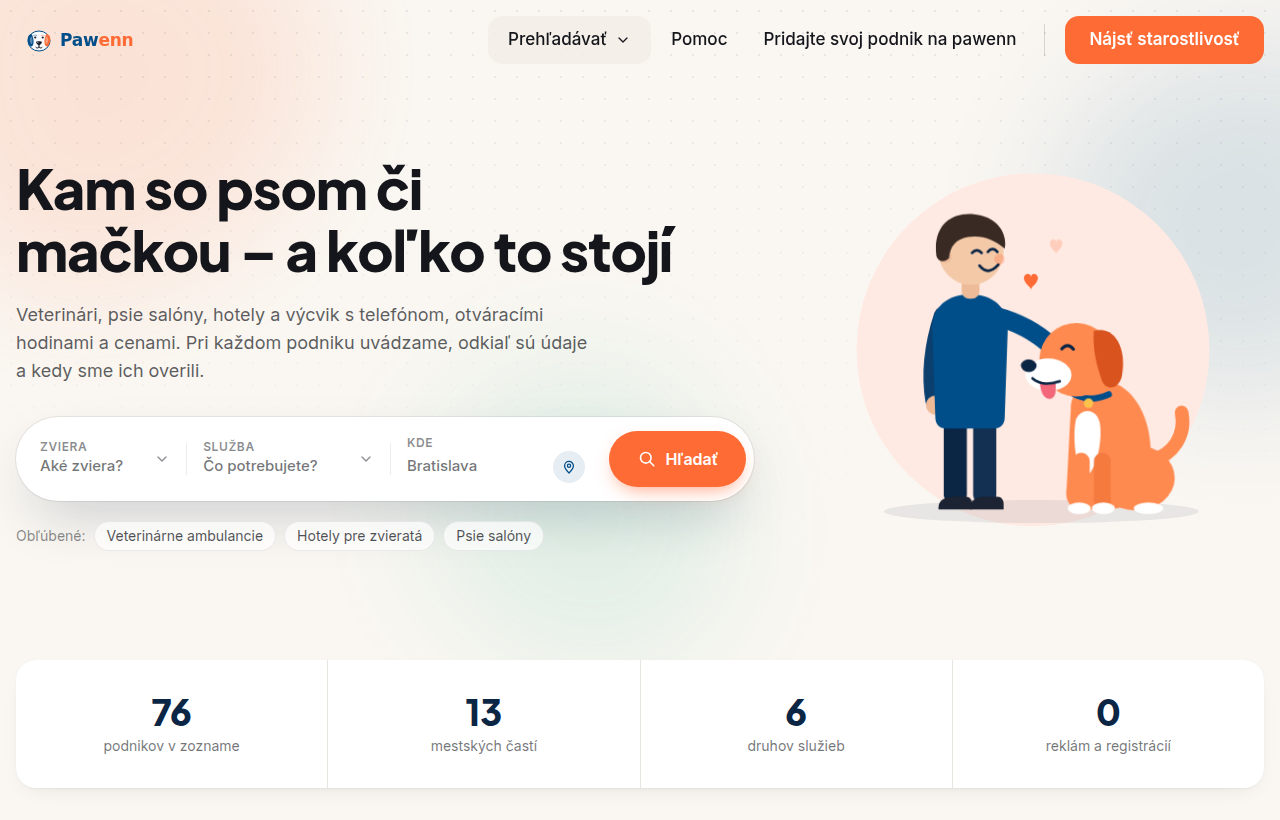
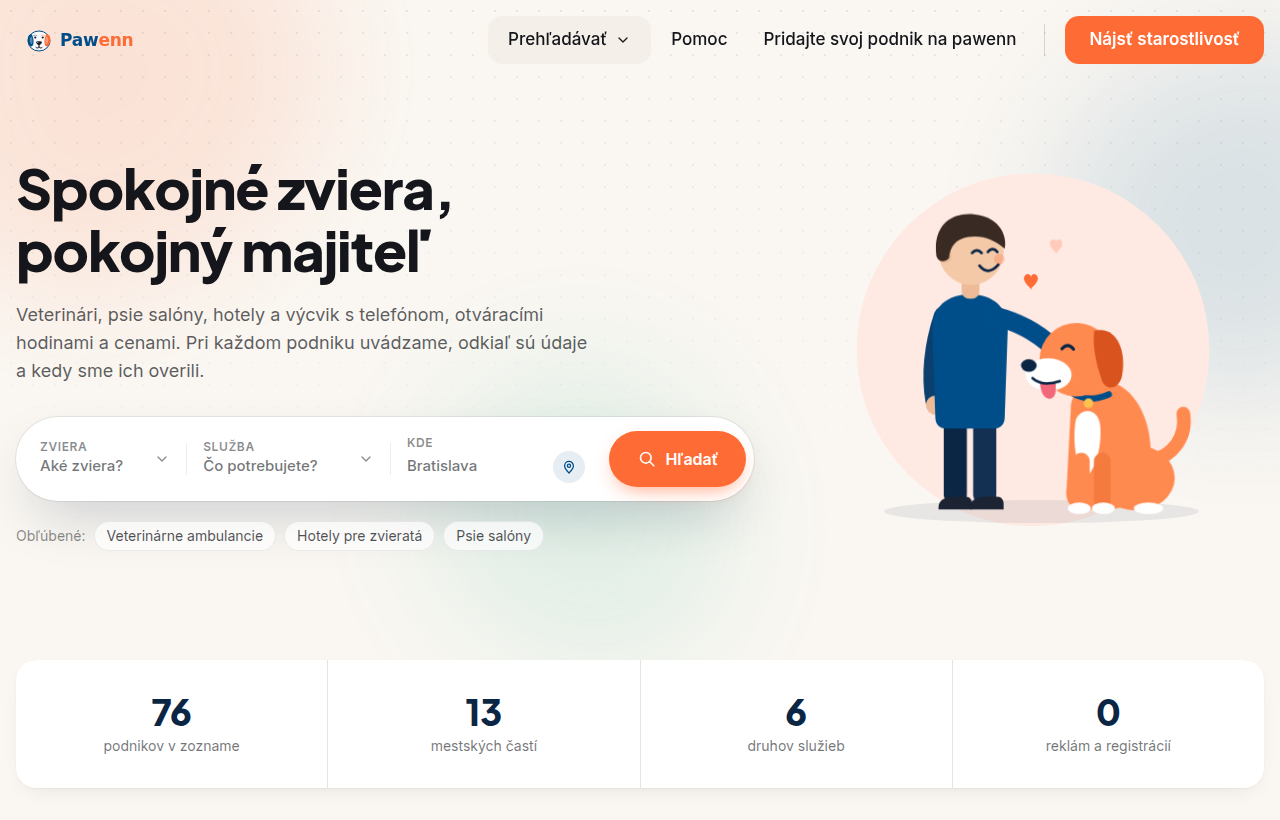
[дизайнер] Главная: слоган «Spokojné zviera, pokojný majiteľ»
Владелец выбрал слоган из шести вариантов (прошлый «Kam so psom či
mačkou – a koľko to stojí» ему не понравился):
  SK: «Spokojné zviera, pokojný majiteľ»
  EN: «Happy pet, easy mind»
Довольный питомец — спокойный хозяин; перекликается с анимацией
справа. Подзаголовок, анимация, <title> и description без изменений.

Проверено: lint, tsc, next build; 1 H1, без горизонтальной прокрутки
на 390 и 1280 (sk/en).

Исполнитель: Claude Code (облачный, «дизайнер») по прямому указанию владельца.

Claude-Session: https://claude.ai/code/session_019ZiHMdPZ52Pp3BSEGyzENY

Changed region(s): [[0.0, 0.1829, 0.5312, 0.3659], [0.9062, 0.4878, 0.9375, 0.5488]]

diff --git a/website/lib/dictionaries/sk.ts b/website/lib/dictionaries/sk.ts
@@ -79,7 +79,7 @@ export const sk: Dictionary = {
     metaTitle: (where: string) => `Služby pre zvieratá ${skIn(where)} – veterinári, psie salóny, hotely | Pawenn`,
     metaDescription: (where: string) =>
       `Služby pre zvieratá ${skIn(where)} - psie salóny, veterinári, hotely pre zvieratá, výcvik a ďalšie, s kontaktom na jeden dotyk`,
-    h1: "Kam so psom či mačkou\u00a0– a\u00a0koľko to stojí",
+    h1: "Spokojné zviera, pokojný majiteľ",
     subtitle: "Veterinári, psie salóny, hotely a výcvik s\u00a0telefónom, otváracími hodinami a cenami. Pri každom podniku uvádzame, odkiaľ sú údaje a kedy sme ich overili.",
     popular: "Obľúbené:",
     statPlaces: "podnikov v zozname",

diff --git a/website/lib/dictionaries/en.ts b/website/lib/dictionaries/en.ts
@@ -67,7 +67,7 @@ export const en = {
     metaTitle: (where: string) => `Pet Services ${where} – vets, grooming, pet hotels | Pawenn`,
     metaDescription: (where: string) =>
       `Find trusted pet services ${where} - groomers, vets, hotels, training and more`,
-    h1: "Where to take your dog or cat\u00a0– and what it costs",
+    h1: "Happy pet, easy mind",
     subtitle: "Vets, groomers, pet hotels and trainers with phone numbers, opening hours and prices. Every listing says where the details come from and when we checked them.",
     popular: "Popular:",
     statPlaces: "places listed",

diff --git a/docs/design/redesign-audit.md b/docs/design/redesign-audit.md
@@ -376,10 +376,10 @@ pawenn. Сделан кликабельный прототип всего сай
 владельца, по одной.
 
 1. **Шапка главной.** Убраны «парящие» карточки категорий и плашка
-   «76». Заголовок — слоган без города (сайт будет мультигородским):
-   «Kam so psom či mačkou – a koľko to stojí» / «Where to take your
-   dog or cat – and what it costs». Смысл pawenn: куда идти и сколько
-   это стоит. Подзаголовок перечисляет виды услуг (ключевые слова для
+   «76». Заголовок — слоган без города (сайт будет мультигородским),
+   владелец выбрал его из шести вариантов: «Spokojné zviera, pokojný
+   majiteľ» / «Happy pet, easy mind» (довольный питомец — спокойный
+   хозяин; в SK игра слов spokojný / pokojný). Подзаголовок перечисляет виды услуг (ключевые слова для
    поиска) и откуда данные. `<title>` и description по-прежнему с
    городом — это страница конкретного города. Справа на десктопе —
    зацикленная SVG-анимация «хозяин гладит довольного пса»
